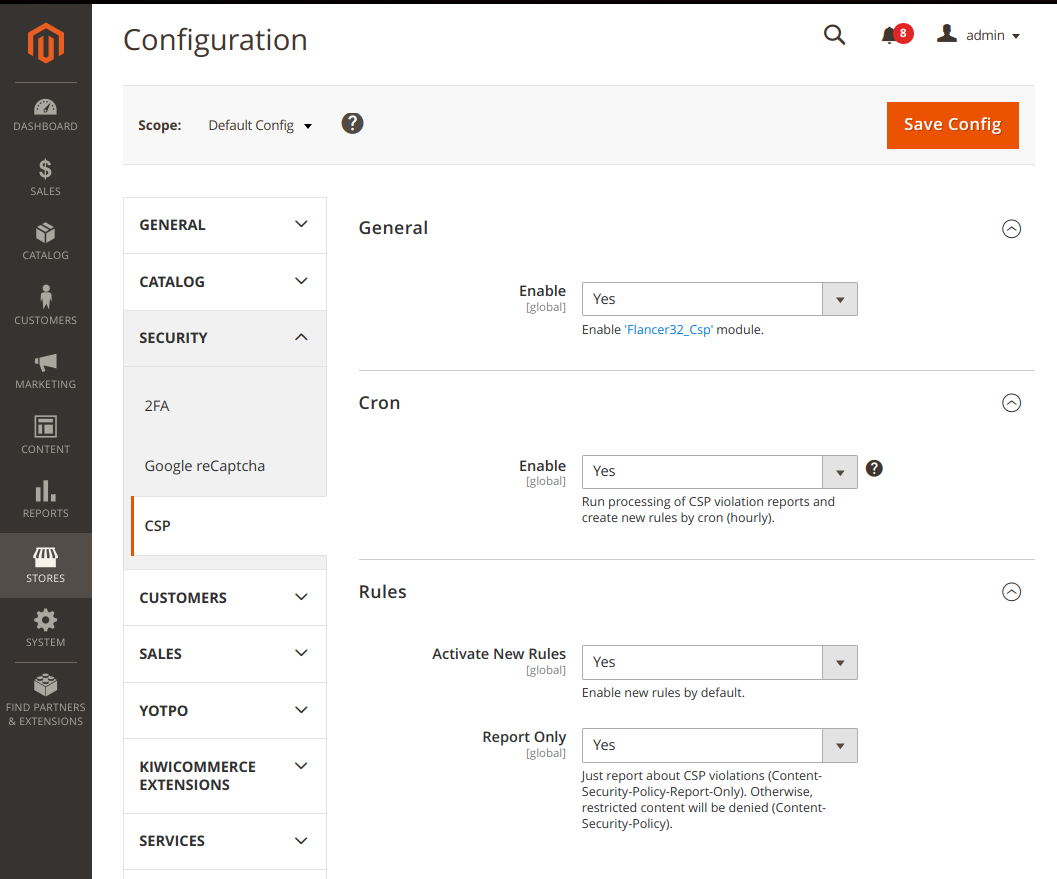
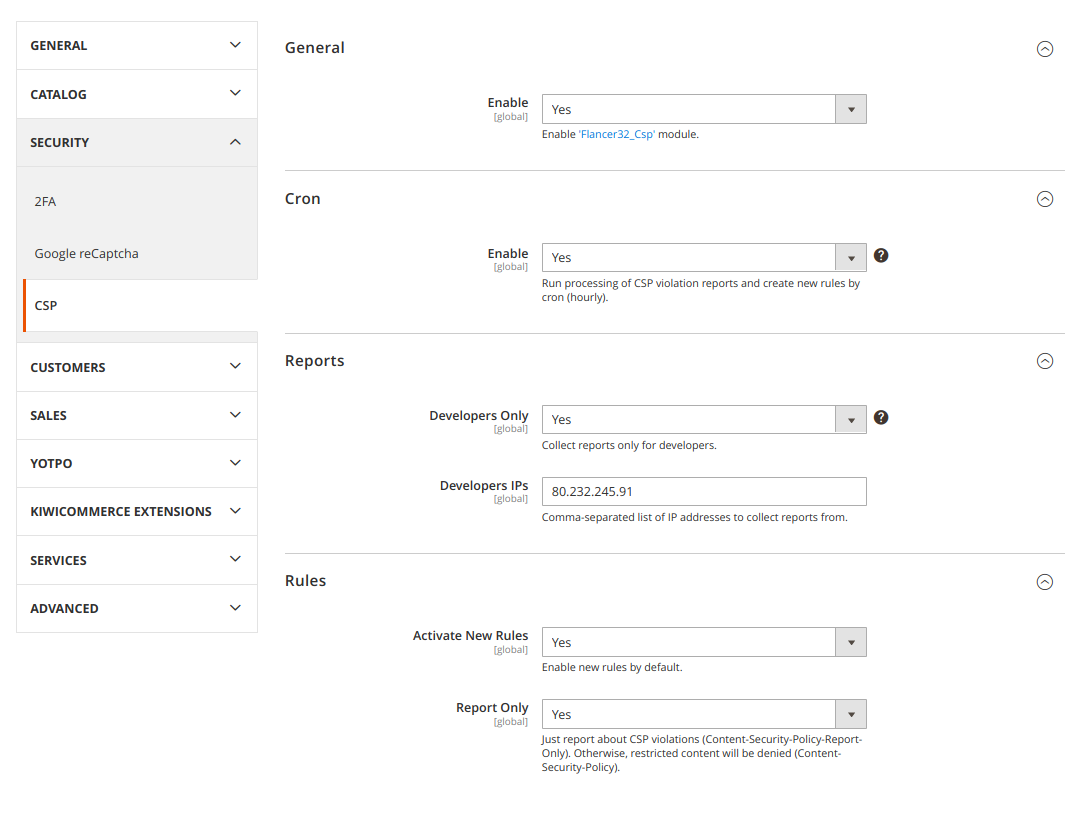
OWN-170 Add filter by developer IP

diff --git a/Plugin/Magento/Csp/Observer/Render.php b/Plugin/Magento/Csp/Observer/Render.php
@@ -8,10 +8,15 @@ namespace Flancer32\Csp\Plugin\Magento\Csp\Observer;
 
 use Flancer32\Csp\Config as Cfg;
 
+/**
+ * Clean up headers after Magento processing of CSP (report-uri is deprecated but works).
+ */
 class Render
 {
     /** @var \Flancer32\Csp\Helper\Config */
     private $hlpCfg;
+    /** @var \Magento\Framework\HTTP\PhpEnvironment\RemoteAddress */
+    private $remoteAddr;
     /** @var \Magento\Framework\App\State */
     private $state;
     /** @var \Magento\Backend\Model\Url */
@@ -21,11 +26,13 @@ class Render
 
     public function __construct(
         \Magento\Framework\App\State $state,
+        \Magento\Framework\HTTP\PhpEnvironment\RemoteAddress $remoteAddr,
         \Magento\Backend\Model\Url $urlBack,
         \Magento\Framework\Url $urlFront,
         \Flancer32\Csp\Helper\Config $hlpCfg
     ) {
         $this->state = $state;
+        $this->remoteAddr = $remoteAddr;
         $this->urlBack = $urlBack;
         $this->urlFront = $urlFront;
         $this->hlpCfg = $hlpCfg;
@@ -46,35 +53,15 @@ class Render
         // Collect all CSP rules and compose HTTP header.
         $proceed($observer);
         // ... then modify HTTP header
+        /** @var \Magento\Framework\App\Response\HttpInterface $response */
+        $response = $observer->getEvent()->getData('response');
         if ($this->hlpCfg->getEnabled()) {
-            // Setup reporting in HTTP header.
-            /** @var \Magento\Framework\App\Response\HttpInterface $response */
-            $response = $observer->getEvent()->getData('response');
-            // URI to get CSP violation reports for admin/front areas
-            $uri = $this->getReportUri();
-            // 'Report-To' is not widely supported yet, so remove it. Use 'report-uri' directive instead.
-            // (https://developer.mozilla.org/en-US/docs/Web/HTTP/Headers/Content-Security-Policy/report-to)
-            $response->clearHeader('Report-To');
-            // Get current CSP header and clear it.
-            $cspHeader = $response->getHeader(Cfg::HTTP_HEAD_CSP_REPORT_ONLY);
-            if ($cspHeader) {
-                $response->clearHeader(Cfg::HTTP_HEAD_CSP_REPORT_ONLY);
+            if ($this->shouldAddReporting()) {
+                /* setup CSP reporting (replace Magento added directives) */
+                $this->setupReporting($response);
             } else {
-                $cspHeader = $response->getHeader(Cfg::HTTP_HEAD_CSP);
-                $response->clearHeader(Cfg::HTTP_HEAD_CSP);
-            }
-            // Modify CSP header if exists.
-            if ($cspHeader) {
-                $value = $cspHeader->getFieldValue();
-                // use deprecated 'report-uri' instead of 'report-to' because Chrome doesn't work correctly with
-                // new 'report'to' or with both directives.
-                $value = str_replace('report-to report-endpoint;', '', $value);
-                // only one 'report-uri' directive is allowed
-                $pattern = '/report-uri\s*.*;/';
-                $value = preg_replace($pattern, '', $value);
-                $value .= "report-uri $uri;";
-                $header = $this->hlpCfg->getRulesReportOnly() ? Cfg::HTTP_HEAD_CSP_REPORT_ONLY : Cfg::HTTP_HEAD_CSP;
-                $response->setHeader($header, $value);
+                /* clean CSP reporting added by Magento */
+                $this->setupReporting($response, true);
             }
         }
     }
@@ -86,6 +73,61 @@ class Render
             $result = $this->urlBack->getUrl(Cfg::ROUTE_REPORT);
         } else {
             $result = $this->urlFront->getUrl(Cfg::ROUTE_REPORT);
+        }
+        return $result;
+    }
+
+    /**
+     * Modify HTTP headers to setup CSP reporting.
+     *
+     * @param \Magento\Framework\App\Response\HttpInterface $response
+     * @param bool $justClear
+     */
+    private function setupReporting(&$response, $justClear = false)
+    {
+        // URI to get CSP violation reports for admin/front areas
+        $uri = $this->getReportUri();
+        // 'Report-To' is not widely supported yet, so remove it. Use 'report-uri' directive instead.
+        // (https://developer.mozilla.org/en-US/docs/Web/HTTP/Headers/Content-Security-Policy/report-to)
+        $response->clearHeader('Report-To');
+        // Get current CSP header and clear it.
+        $cspHeader = $response->getHeader(Cfg::HTTP_HEAD_CSP_REPORT_ONLY);
+        if ($cspHeader) {
+            $response->clearHeader(Cfg::HTTP_HEAD_CSP_REPORT_ONLY);
+        } else {
+            $cspHeader = $response->getHeader(Cfg::HTTP_HEAD_CSP);
+            $response->clearHeader(Cfg::HTTP_HEAD_CSP);
+        }
+        // Modify CSP header if exists.
+        if ($cspHeader) {
+            $value = $cspHeader->getFieldValue();
+            // use deprecated 'report-uri' instead of 'report-to' because Chrome doesn't work correctly with
+            // new 'report'to' or with both directives.
+            $value = str_replace('report-to report-endpoint;', '', $value);
+            // only one 'report-uri' directive is allowed
+            $pattern = '/report-uri\s*.*;/';
+            $value = preg_replace($pattern, '', $value);
+            if (!$justClear) {
+                $value .= "report-uri $uri;";
+            }
+            $header = $this->hlpCfg->getRulesReportOnly() ? Cfg::HTTP_HEAD_CSP_REPORT_ONLY : Cfg::HTTP_HEAD_CSP;
+            $response->setHeader($header, $value);
+        }
+    }
+
+    /**
+     * Validate visitor's IP address if reporting is allowed for developers only.
+     *
+     * @return bool
+     */
+    private function shouldAddReporting()
+    {
+        $result = true;
+        if ($this->hlpCfg->getReportsDeveloperOnly()) {
+            /* CSP reports are allowed for developers only, we need to check IP address of visitor. */
+            $ip = $this->remoteAddr->getRemoteAddress();
+            $allowed = $this->hlpCfg->getReportsDeveloperIps();
+            $result = in_array($ip, $allowed);
         }
         return $result;
     }

diff --git a/Helper/Config.php b/Helper/Config.php
@@ -32,7 +32,7 @@ class Config
      * Cron activity.
      *
      * @param string $scopeType
-     * @param string $scopeCode
+     * @param string|null $scopeCode
      * @return bool
      */
     public function getCronEnabled($scopeType = AScopeCfg::SCOPE_TYPE_DEFAULT, $scopeCode = null)
@@ -49,7 +49,7 @@ class Config
      * Activity of the module.
      *
      * @param string $scopeType
-     * @param string $scopeCode
+     * @param string|null $scopeCode
      * @return bool
      */
     public function getEnabled($scopeType = AScopeCfg::SCOPE_TYPE_DEFAULT, $scopeCode = null)
@@ -60,10 +60,50 @@ class Config
     }
 
     /**
+     * @param string $scopeType
+     * @param string|null $scopeCode
+     * @return array
+     */
+    public function getReportsDeveloperIps($scopeType = AScopeCfg::SCOPE_TYPE_DEFAULT, $scopeCode = null)
+    {
+        $result = [];
+        $enabled = $this->getReportsDeveloperOnly($scopeType, $scopeCode);
+        if ($enabled) {
+            $values = $this->scopeConfig->getValue('fl32_csp/reports/developer_ips', $scopeType, $scopeCode);
+            $ips = explode(',', $values);
+            foreach ($ips as $ip) {
+                $ip = trim($ip);
+                $ip = filter_var($ip, FILTER_VALIDATE_IP);
+                if ($ip) {
+                    $result[] = $ip;
+                }
+            }
+        }
+        return $result;
+    }
+
+    /**
+     * Collect reports only for developers.
+     *
+     * @param string $scopeType
+     * @param string|null $scopeCode
+     * @return bool
+     */
+    public function getReportsDeveloperOnly($scopeType = AScopeCfg::SCOPE_TYPE_DEFAULT, $scopeCode = null)
+    {
+        $result = $this->getEnabled($scopeType, $scopeCode);
+        if ($result) {
+            $result = $this->scopeConfig->getValue('fl32_csp/reports/developer_only', $scopeType, $scopeCode);
+            $result = filter_var($result, FILTER_VALIDATE_BOOLEAN);
+        }
+        return $result;
+    }
+
+    /**
      * Should new rules be active by default?
      *
      * @param string $scopeType
-     * @param string $scopeCode
+     * @param string|null $scopeCode
      * @return bool
      */
     public function getRulesNewAreActive($scopeType = AScopeCfg::SCOPE_TYPE_DEFAULT, $scopeCode = null)
@@ -80,7 +120,7 @@ class Config
      * Use 'Content-Security-Policy-Report-Only' or 'Content-Security-Policy'.
      *
      * @param string $scopeType
-     * @param string $scopeCode
+     * @param string|null $scopeCode
      * @return bool
      */
     public function getRulesReportOnly($scopeType = AScopeCfg::SCOPE_TYPE_DEFAULT, $scopeCode = null)

diff --git a/docs/user/strategy.md b/docs/user/strategy.md
@@ -1,0 +1,31 @@
+# Usage Strategy
+
+In the beginning this module is installed with disabled functionality. All CSP header directives are added by Magento itself. CSP violations are reported in browser console and are not sent back to the server.
+
+
+
+## Collection Phase
+
+Enable general functionality in [config](./config.md) (`General`) then enable reports collection for developers (`Reports / Developers Only`) and set IP address of your workstations (or comma-separated list of IP addresses) - `Reports / Developers IPs`.
+
+Surf your store from your workstation and collect CSV reports caused by your activity only. The violations are repeated for all visitors and you need just one visitor to collect the most of them. Control reports using [reports](./grid/reports.md) grid in admin.
+
+Run [command](./command.md) to analyze reports and to generate CSP rules to prevent reported violations:
+```shell script
+$ ./bin/magento fl32:csp:analyze 
+``` 
+Control generated rules using [rules](./grid/rules.md) grid in admin.
+
+At the collection phase all visitors will get CSP directives in `Content-Security-Policy-Report-Only` but only developers workstations will have `report-uri` directive to report violations. Violations for other visitors will be reported into browser console. So your server will not be overloaded with the same reports from other visitors (each violation generates one report, one page can have a lot of violations).
+
+
+
+## Production Phase
+
+Disable `Reports / Developers Only` configuration option. Your collected CSP rules will be applied to all visitors, any violation will be reported to the server. Cron job will analyze all collected reports and will generate new rules every hour. All analyzed reports will be deleted.
+
+
+
+## Paranoid Mode
+
+Disable `Cron` in configuration after the most of possible reports will be collected and analyzed then switch `Rules / Report Only` to `No`. `Content-Security-Policy` header will be used instead of `Content-Security-Policy-Report-Only`. No restricted content will be allowed more. All new violations will be reported but not be converted to rules and not be deleted. You can validate the reports and convert it to the rules [manually](./command.md).

diff --git a/docs/user/config.md b/docs/user/config.md
@@ -13,6 +13,11 @@ Enable/disable module's functionality.
 Enable/disable cron task to process violations reports. This task starts every hour, analyzes reports and creates policy rules. Processed reports will be deleted.
 
 
+## Reports
+- **Developers Only**: `true` - CSP violation reports will be collected from given IP addresses (see below); `false` - CSP violation reports will be collected from any IP address.
+- **Developers IPs**: comma-separated list of IP addresses to collect CSP violation reports from.
+
+
 ## Rules
 - **Activate New Rules**: `true` - cron task creates new rules and enables it; `false` - creates only (enable manually using SQL).
 - **Report Only**: use `Content-Security-Policy-Report-Only` or `Content-Security-Policy` HTTP header for policy.

diff --git a/README.md b/README.md
@@ -31,6 +31,7 @@ $ ./bin/magento cache:clean
 ## Docs
 
 - [Configuration](./docs/user/config.md)
+- [Usage strategy](./docs/user/strategy.md)
 - Grids:
   - [Violations reports](./docs/user/grid/reports.md) 
   - [CSP rules](./docs/user/grid/rules.md)

diff --git a/RELEASE.md b/RELEASE.md
@@ -1,0 +1,6 @@
+# Releases
+
+
+## 0.0.5
+* Disable module functionality by default.
+* Add developer IPs to restrict reports collection.
